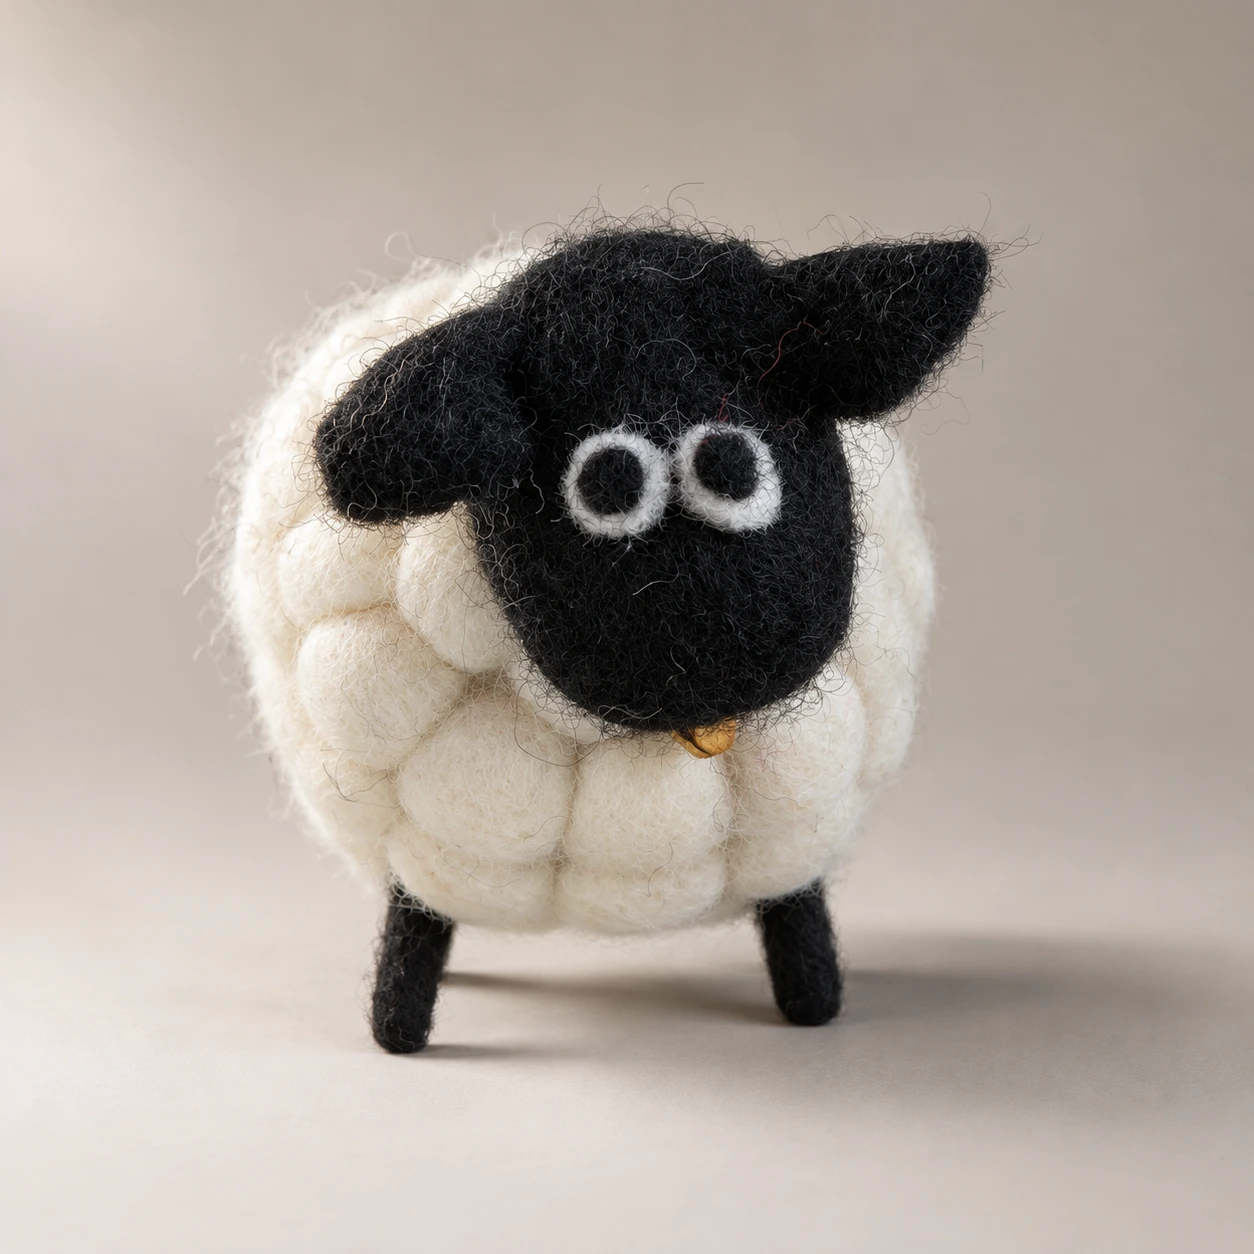
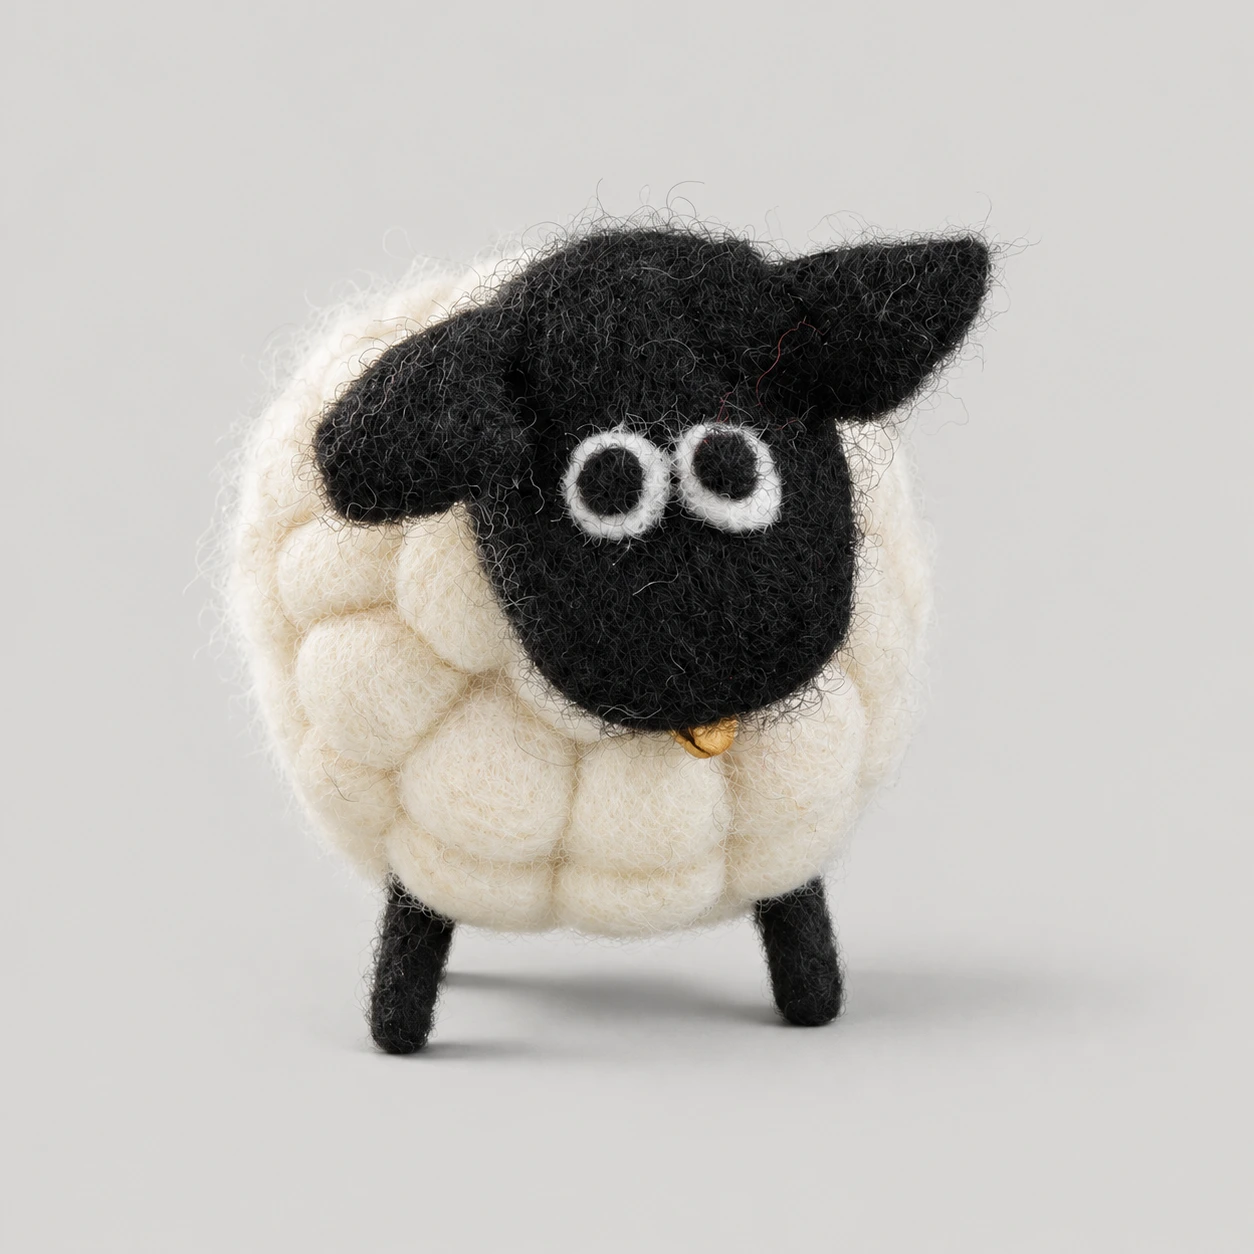
Neutral grey studio photography

diff --git a/style.css b/style.css
@@ -230,12 +230,12 @@ html:lang(zh) :is(h1,h2,h3) em,
 .editorial .story-hero h1 em{color:#746456}
 @media(max-width:640px){.editorial .hero{min-height:565px;padding:3rem 0}.editorial .landscape{object-position:64% center}.editorial .hero:before{background:linear-gradient(0deg,#181610bf,transparent 100%)}.editorial .header{min-height:66px}.editorial .brand{font-size:1.5rem}.editorial .gallery{gap:2rem}}
 .catalog-link{display:inline-block;margin-top:2rem}
-.collection-hero{background:#e9e5df}
+.collection-hero{background:#d7d6d3}
 .collection-head{display:grid;grid-template-columns:1fr 1fr;align-items:center;gap:6%;padding-block:2rem}
 .collection-head h1{font-size:clamp(3rem,6.5vw,7rem);letter-spacing:-.05em;margin:.8rem 0}
 .collection-head p:not(.eyebrow){max-width:29rem;line-height:1.7}
 .collection-head a,.collection-list a{display:inline-block;margin-top:.85rem}
-.collection-head img{width:100%;height:clamp(290px,36vw,480px);object-fit:contain;mix-blend-mode:multiply}
+.collection-head img{width:100%;height:clamp(290px,36vw,480px);object-fit:contain}
 .collection-list{padding-block:clamp(3rem,7vw,7rem)}
 .collection-list h3{font:400 2rem/1.14 var(--serif);margin:.4rem 0}
 .collection-list article small{display:block;margin-top:1rem;color:var(--muted)}
